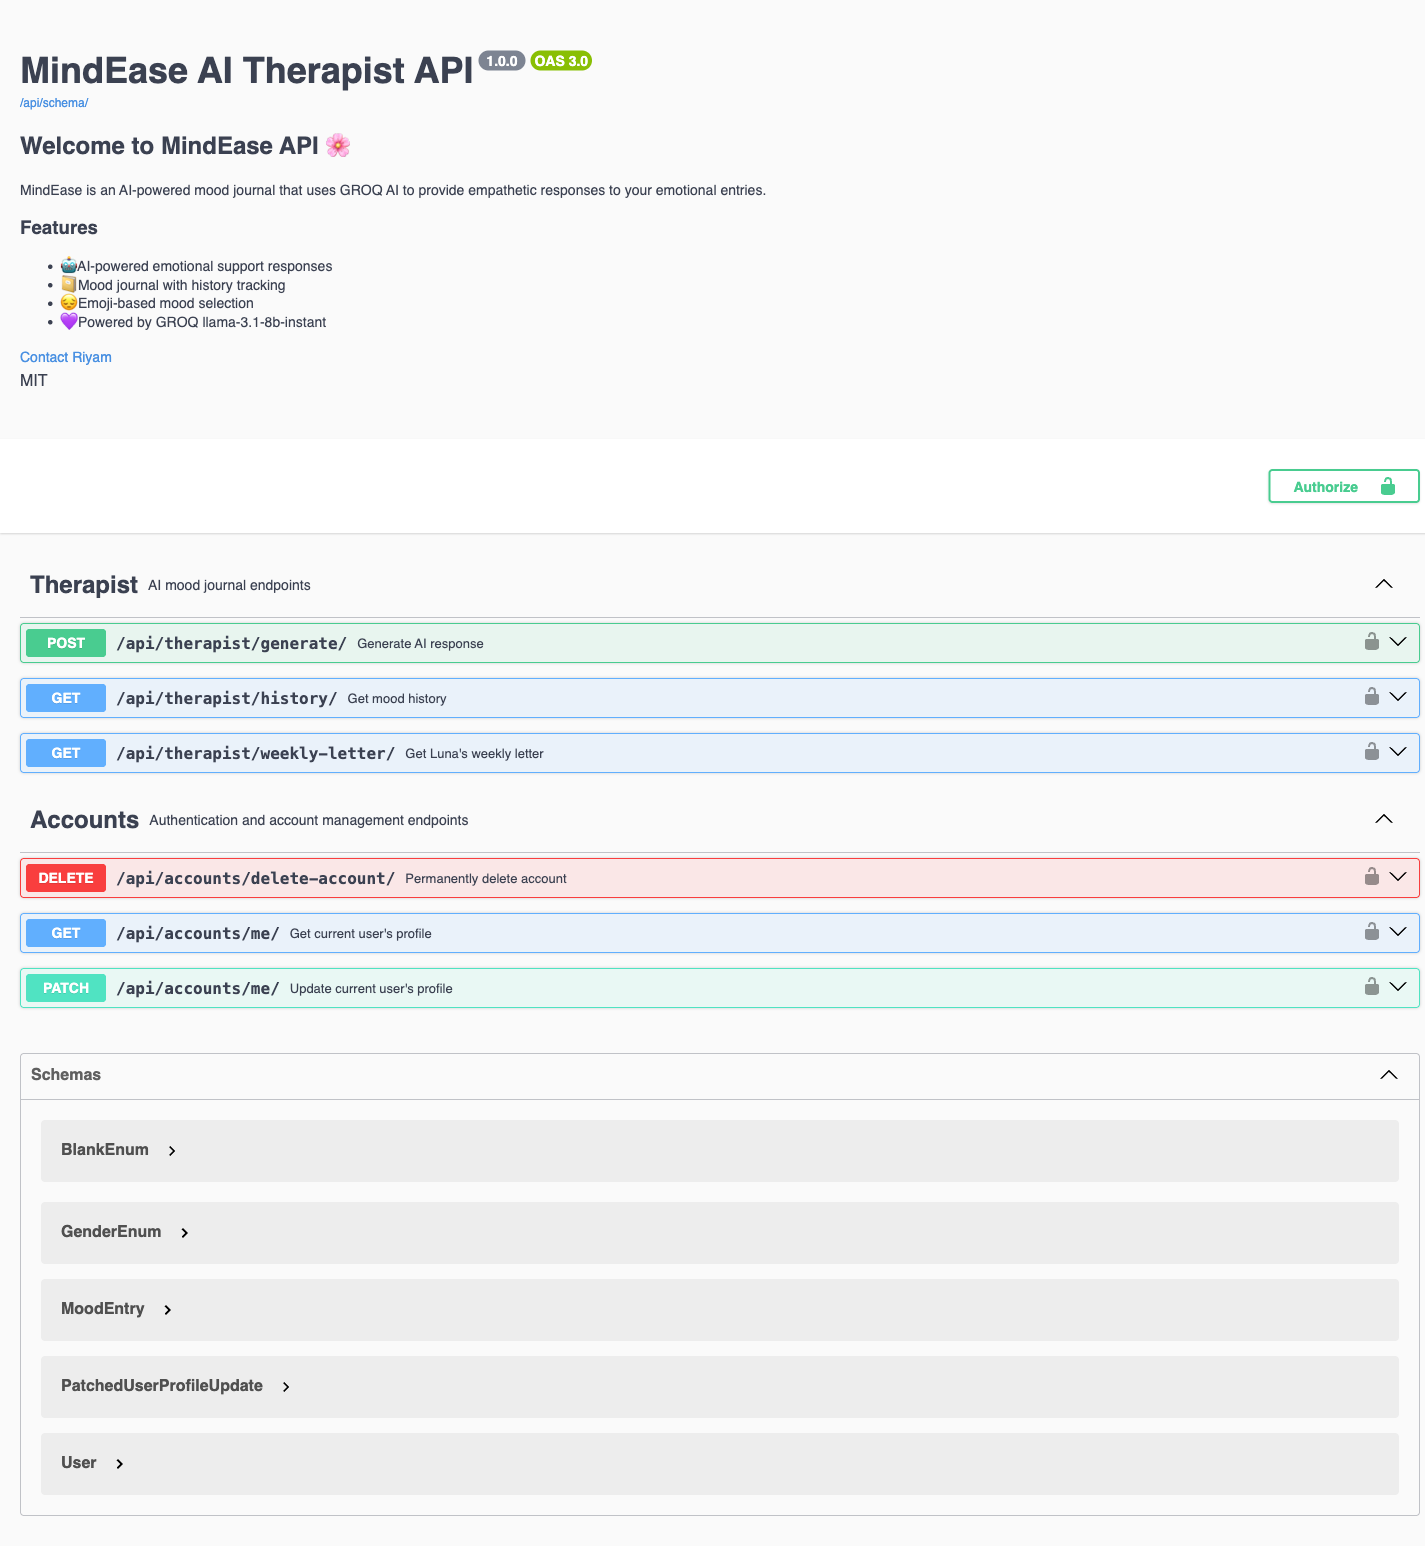
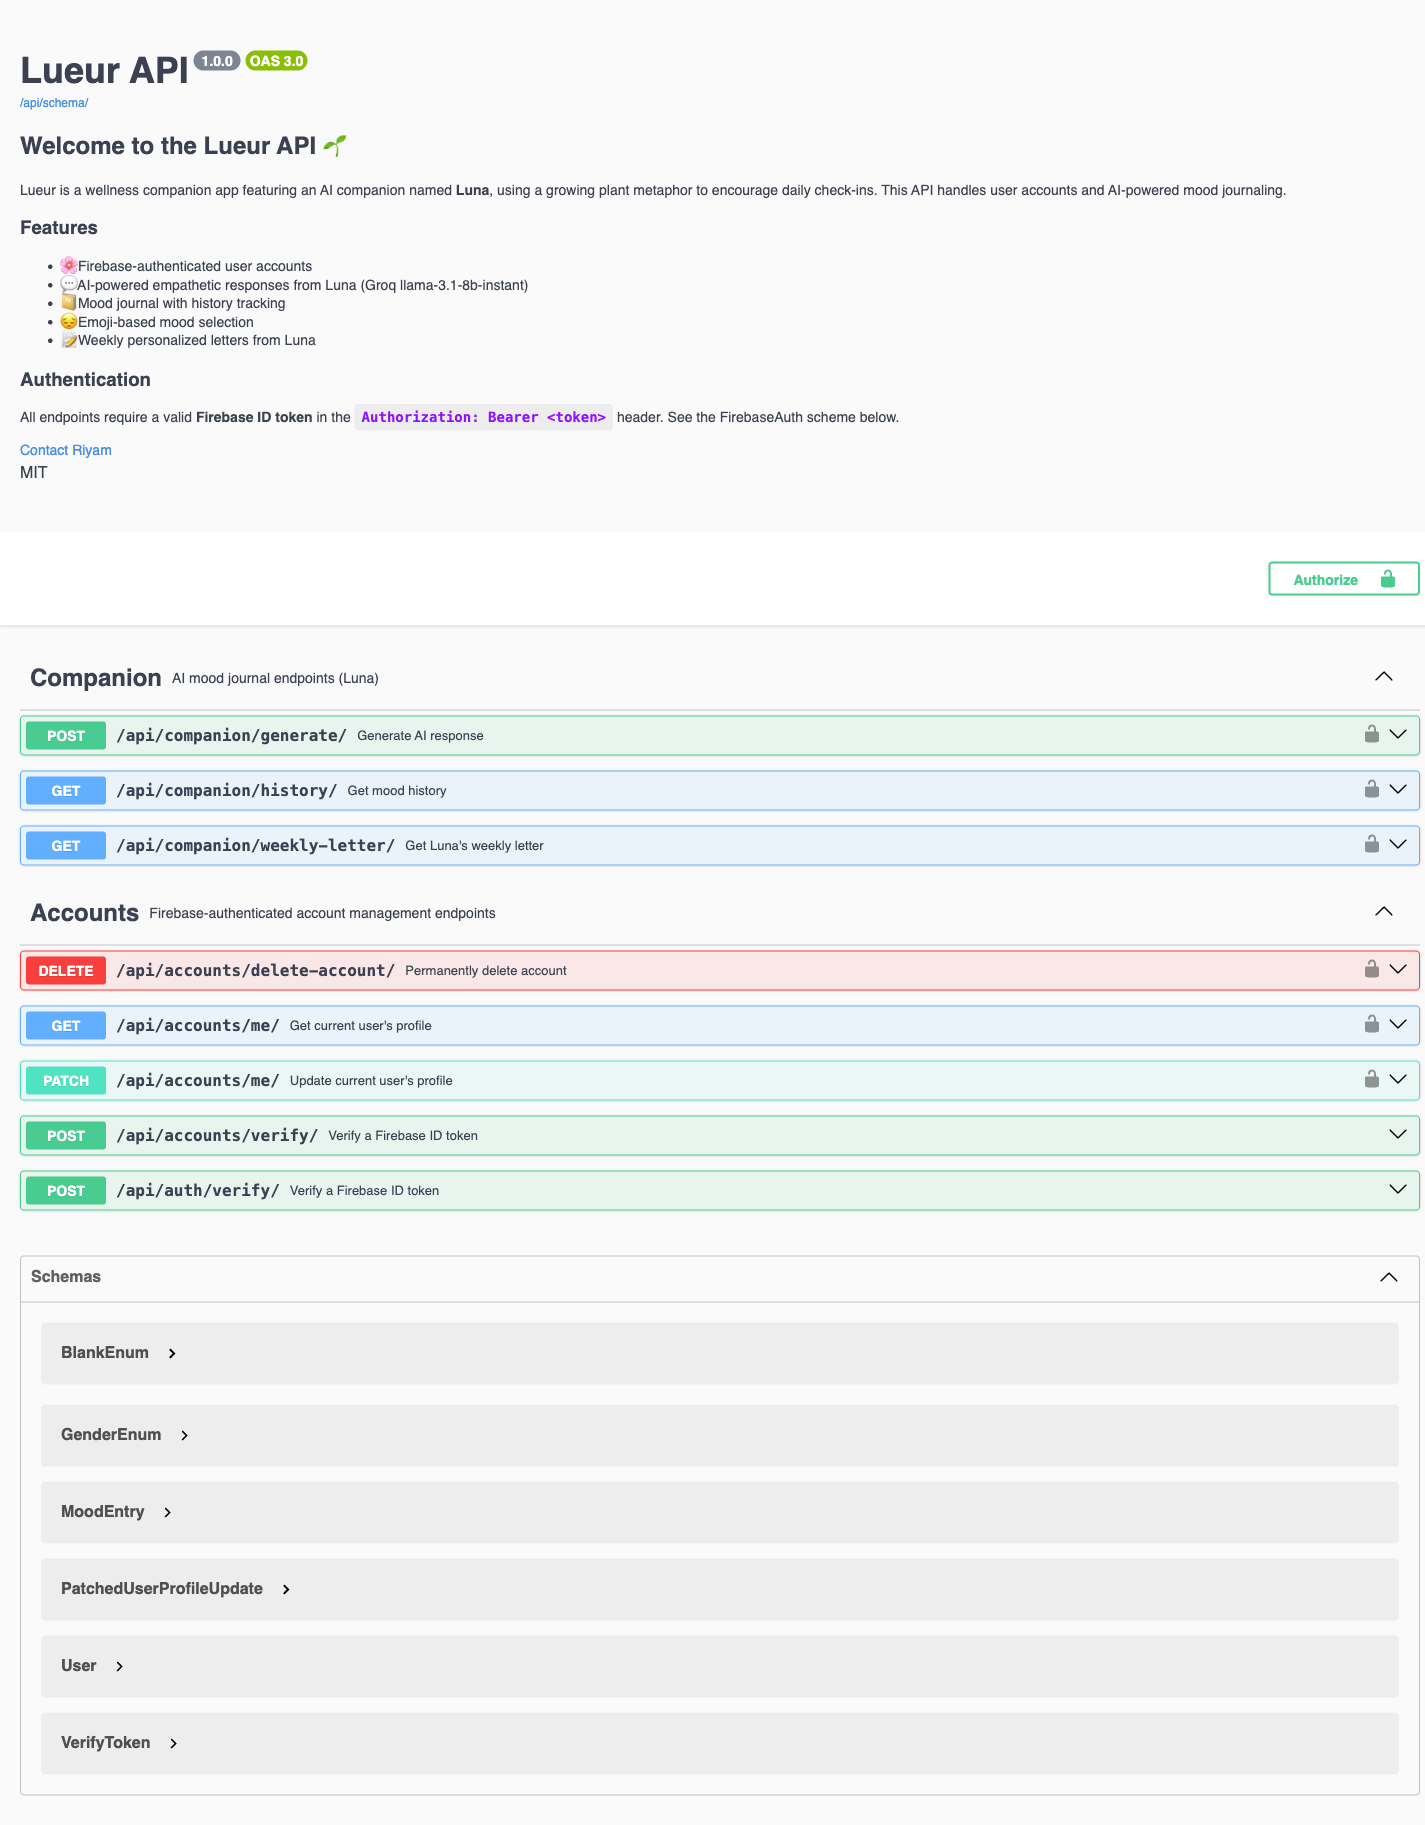
update README to include all the new screenshots and update privacy policy to include new information about Groq and data deletion requests

diff --git a/templates/privacy.html b/templates/privacy.html
@@ -194,7 +194,7 @@ footer {
 
 <div class="wrap">
   <h1>Privacy Policy for Lueur</h1>
-  <div class="updated">Last updated: July 1, 2026</div>
+  <div class="updated">Last updated: July 15, 2026</div>
 
   <p>Lueur ("we," "our," or "the app") is an AI wellness companion app featuring Luna, who provides supportive responses to your mood journal entries. This Privacy Policy explains what information we collect, how we use it, and the choices you have.</p>
   <p>By using Lueur, you agree to the collection and use of information as described in this policy.</p>
@@ -219,7 +219,7 @@ footer {
   </ul>
 
   <h3>AI-Generated Responses</h3>
-  <p>Each journal entry you submit is processed to generate an empathetic response from Luna. <strong>To generate this response, your journal entry text is sent to Groq, a third-party AI processing service, for analysis.</strong> Groq processes this text solely to generate a response and return it to Lueur. We do not control Groq's independent data retention practices; you can review Groq's privacy policy at <a href="https://groq.com/privacy-policy/" target="_blank">groq.com/privacy-policy</a>.</p>
+  <p>Each journal entry you submit is processed to generate an empathetic response from Luna. <strong>To generate this response, your journal entry text is sent to Groq, a third-party AI processing service, for analysis.</strong> Groq processes this text solely to generate a response and return it to Lueur. Per Groq's GroqCloud Terms of Sale, Groq does not use API inputs or outputs to train its models. We do not control Groq's independent data retention practices; you can review Groq's privacy policy at <a href="https://groq.com/privacy-policy/" target="_blank">groq.com/privacy-policy</a>.</p>
   <p>We store both your original journal entry and Luna's AI-generated response in our database, associated with your account, so you can view your journal history.</p>
 
   <h3>Usage Data</h3>
@@ -244,7 +244,7 @@ footer {
     <tr><td>Firebase Authentication (Google)</td><td>User sign-up and login</td><td>Email address, authentication tokens</td></tr>
     <tr><td>Groq</td><td>AI-generated journal responses</td><td>Journal entry text (thoughts, emoji, limited conversation history)</td></tr>
     <tr><td>Railway</td><td>Application hosting</td><td>All application data (encrypted in transit and at rest)</td></tr>
-    <tr><td>Sentry</td><td>Error monitoring</td><td>Technical error logs (no journal content included)</td></tr>
+    <tr><td>Sentry</td><td>Error monitoring</td><td>Technical error reports, which may occasionally include device/browser information, and in rare cases parts of your journal entry text if an error occurs while it's being processed. IP address, cookies, and full request bodies are not sent.</td></tr>
   </table>
 
   <p>Each of these providers has its own privacy policy governing how they handle data on their platforms.</p>
@@ -263,6 +263,9 @@ footer {
 
   <h3>Data Portability</h3>
   <p>If you would like a copy of your data before deletion, please contact us at <a href="mailto:[email redacted]">[email redacted]</a>.</p>
+
+  <h3>Data Subject Rights (EU, UK, and Other Jurisdictions)</h3>
+  <p>If you're located in the EU, UK, or another jurisdiction with statutory data rights, you have the right to access, correct, delete, and receive a portable copy of your personal data. These rights are already available through the app features described above — profile editing for correction, account deletion for erasure, and a data copy on request for portability and access. To exercise any of these rights, contact us at <a href="mailto:[email redacted]">[email redacted]</a>.</p>
 
   <h2>Data Security</h2>
   <p>We take reasonable measures to protect your information, including encrypted connections (HTTPS/TLS) for all data transmitted between the app and our servers, authentication via Firebase's secure token-based system, and access controls limiting who can access production data. However, no method of transmission or storage is 100% secure, and we cannot guarantee absolute security.</p>

diff --git a/therapist/views.py b/therapist/views.py
@@ -1,3 +1,5 @@
+import logging
+
 from rest_framework.views import APIView
 from rest_framework.response import Response
 from rest_framework import status
@@ -14,6 +16,8 @@ from datetime import timedelta
 from django.utils import timezone
 from .models import MoodEntry
 from rest_framework.throttling import ScopedRateThrottle
+
+logger = logging.getLogger(__name__)
 
 
 class GenerateResponseAPIView(APIView):
@@ -112,7 +116,7 @@ The entry is automatically saved to your journal history.
         try:
             ai_reply = generate_ai_response(emoji, thoughts, history)
         except Exception as e:
-            print(f"GROQ AI error: {e}")
+            logger.error("Groq AI error: %s", e)
             ai_reply = "Luna is taking a little break right now. Please try again in a moment 🌿"
 
         entry = MoodEntry.objects.create(
@@ -248,7 +252,7 @@ class WeeklyLetterAPIView(APIView):
             letter_content = generate_weekly_letter(formatted_entries, entries_count, dominant_emoji)
         except Exception as e:
             letter_content = None
-            print(f"Error generating weekly letter: {e}")
+            logger.error("Error generating weekly letter: %s", e)
 
         return Response(
             {

diff --git a/core/settings.py b/core/settings.py
@@ -13,7 +13,6 @@ load_dotenv()
 
 BASE_DIR = Path(__file__).resolve().parent.parent
 
-# Move to Railway environment variables
 SECRET_KEY = os.environ.get("SECRET_KEY", "fallback-local-dev-key")
 GROQ_API_KEY = os.environ.get("GROQ_API_KEY", "")
 FIREBASE_CREDENTIALS_PATH = os.environ.get("FIREBASE_CREDENTIALS_PATH", "")
@@ -191,7 +190,7 @@ header. See the FirebaseAuth scheme below.
     "VERSION": "1.0.0",
     "CONTACT": {
         "name": "Riyam",
-        "email": "[email redacted]",
+        "email": "[email redacted]",
     },
     "LICENSE": {"name": "MIT"},
     "SERVE_INCLUDE_SCHEMA": False,

diff --git a/README.md b/README.md
@@ -38,13 +38,13 @@ Every journal entry is checked for crisis language **before** it ever reaches an
 
 ---
 
-## Live Deployment
+## Demo
 
 Deployed on Railway at [web-production-f8628.up.railway.app](https://web-production-f8628.up.railway.app).
 
-The screenshots below are taken from this branch running locally and reflect the current homepage, privacy policy, and API docs. Redeploy this branch to bring the live Railway site in line with what's shown here.
+The screenshots below are taken from this branch running locally and reflect the current homepage, privacy policy, and API docs — six clean endpoints, the `MoodEntry` schema, the request lifecycle, and the production stack, all on one page.
 
-![Lueur homepage](docs/screenshots/homepage.png)
+![Lueur homepage — API overview, endpoints, MoodEntry schema, request lifecycle, and stack](docs/screenshots/homepage.png)
 
 ---
 
@@ -153,7 +153,7 @@ Interactive docs available at:
 
 #### Swagger UI
 
-![Swagger UI showing the six authenticated Lueur API endpoints](docs/screenshots/swagger-ui.png)
+![Swagger UI showing the Companion and Accounts endpoint groups, plus the request/response schemas](docs/screenshots/swagger-ui.png)
 
 #### ReDoc
 
@@ -556,4 +556,4 @@ If you are in crisis, please reach out:
 
 Built with Django REST Framework · Powered by Groq API (Llama 3.1 8B) · Authenticated via Firebase Auth
 
-Last Updated: July 15, 2026
+Last Updated: July 17, 2026